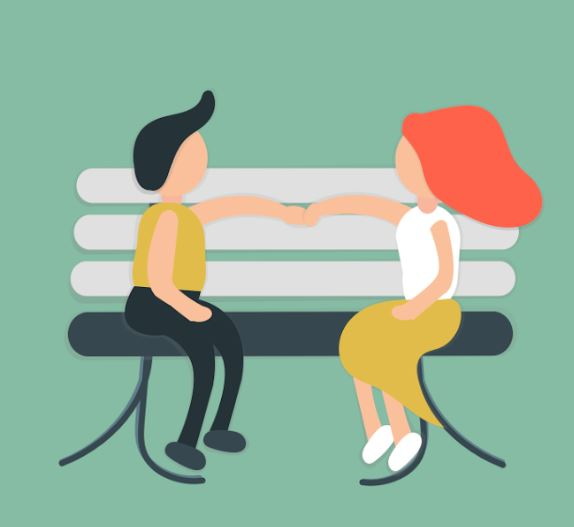
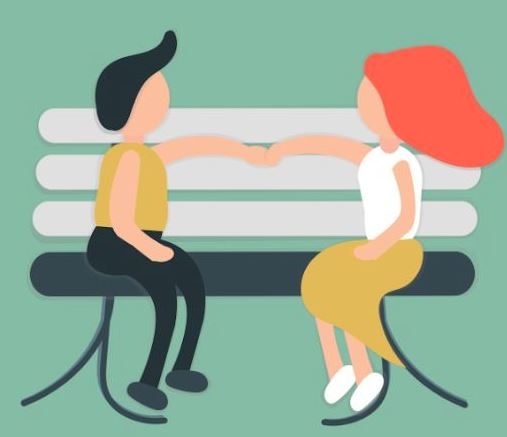
adding, temp navbar, mailist updates,smaller img

diff --git a/src/App.css b/src/App.css
@@ -1,6 +1,6 @@
 .App-body {
   background-color: #87BBA2;
-  min-height: 95vh;
+  min-height: 100vh;
   font-size: calc(10px + 2vmin);
   color:  #3B6064;
 }
@@ -9,13 +9,18 @@
 }
 .logo{justify-content: center;
 width: 50%;
-
 margin-right: auto;
-
+}
+.blog{float: right;
+padding-right: 10;
+margin-right: 10%;
+margin-bottom: 1%;
+padding-top: 10%;
+font-size: medium;
 }
 .graphic{
 	float:right;
-	padding-right: 10%;
+	padding-right: 5%;
 
 }
 .slogan{
@@ -85,6 +90,10 @@ footer {
   }
 
   @media screen and (max-width:1280px){
+	.graphiccontainer{	
+		width: 75%;	
+		margin-left: auto;
+		margin-right: 7%;}
 	.graphic{
 		width:65%;
 		margin-left: auto;

diff --git a/src/App.jsx b/src/App.jsx
@@ -3,6 +3,7 @@ import './App.css';
 import Logo from './components/logo'
 import Mailinglist from './components/mailinglist'
 import Graphic from './components/graphic'
+import Navbar from "./components/nav";
 
 
 function App() {
@@ -10,6 +11,7 @@ function App() {
     <div className="App">
       <header className="App-body">
       <Logo></Logo>
+      <Navbar></Navbar>
         <Graphic></Graphic>
         <Mailinglist></Mailinglist>
       </header>

diff --git a/public/index.html b/public/index.html
@@ -15,10 +15,12 @@
 <body>
   <noscript>You need to enable JavaScript to run this app.</noscript>
   <div id="root">
+    
   </div>
 </body>
 <footer>
   <span>KiKi</span>
+  
   <div>
     <a class="SocialIcons" href="https://www.facebook.com/" target="_blank"><i class="fab fa-facebook-square"></i></a>
     <a class="SocialIcons" href="https://www.instagram.com/?hl=en" target="_blank"> <i class="fab fa-instagram-square"></i></a>

diff --git a/src/components/mailinglist.jsx b/src/components/mailinglist.jsx
@@ -8,6 +8,7 @@ export default function Mailing(props) {
             <button className="mailinglistbtn" href="test.html">Join our mailing list</button>
             <div className="survey">
             <a className="quizlink" href="https://kristawhite122148.typeform.com/to/hNxxl3 " target="_blank" rel="noopener noreferrer">or take this short quiz</a>
+            
         </div>
         </div>
     )

diff --git a/src/components/graphic.jsx b/src/components/graphic.jsx
@@ -3,7 +3,7 @@ import benchpeople from "../assets/images/benchpeople.jpg"
 
 export default function Graphic( props) {
     return (
-        <div className="graphic">
+        <div className="graphiccontainer">
         <img className="graphic" src={benchpeople} alt="people on a bench"></img>
         </div>
     )

diff --git a/src/components/nav.jsx b/src/components/nav.jsx
@@ -1,0 +1,14 @@
+import React from "react";
+
+
+export default function Navbar( props) {
+    return (
+        <div className="blog">
+            <a href="www.google.com" >
+            <nav>
+              <p>Visit our blog</p>
+            </nav>
+            </a>
+        </div>
+    )
+}
